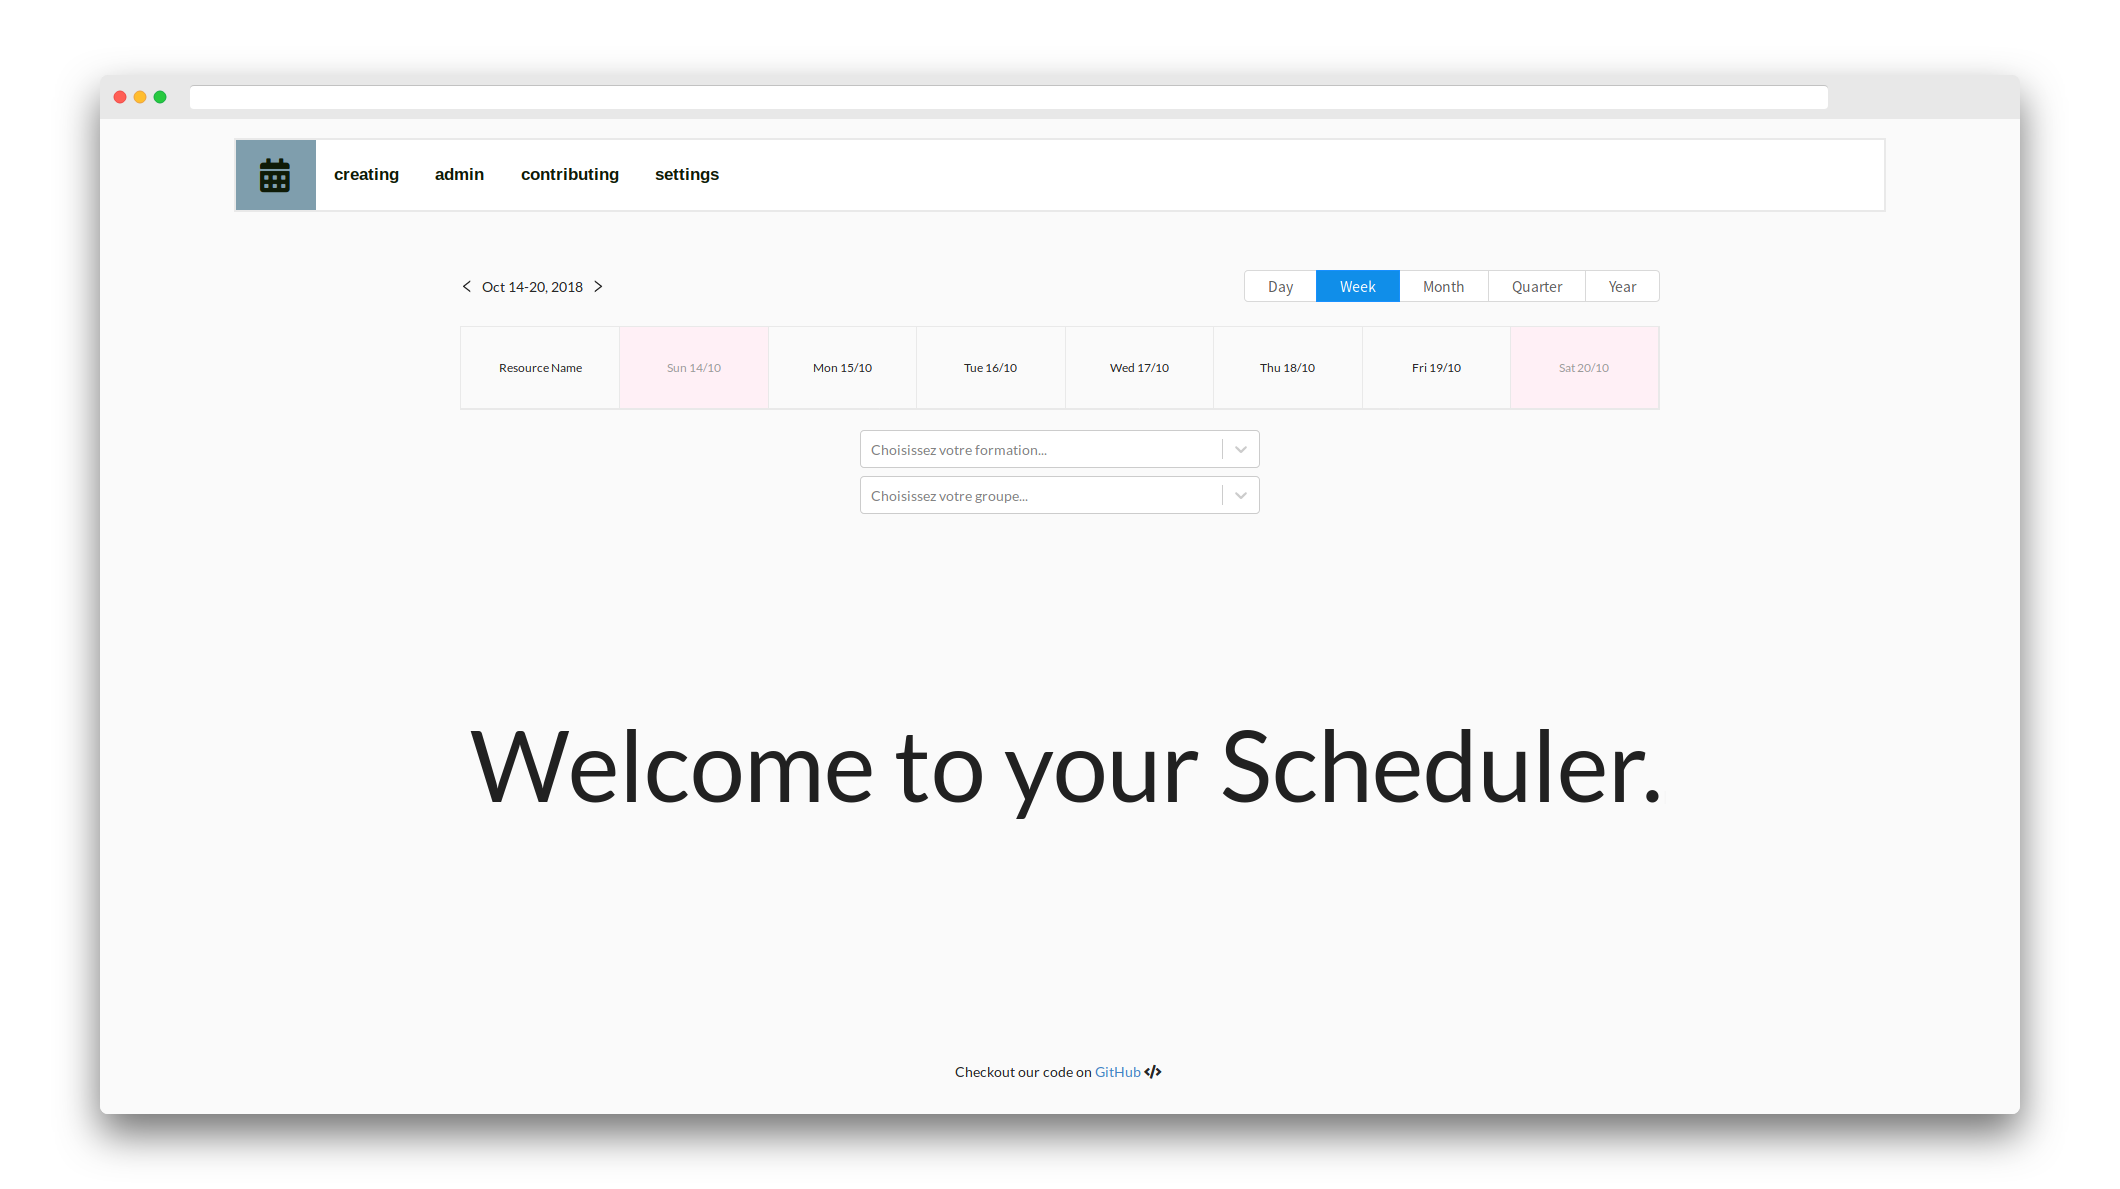
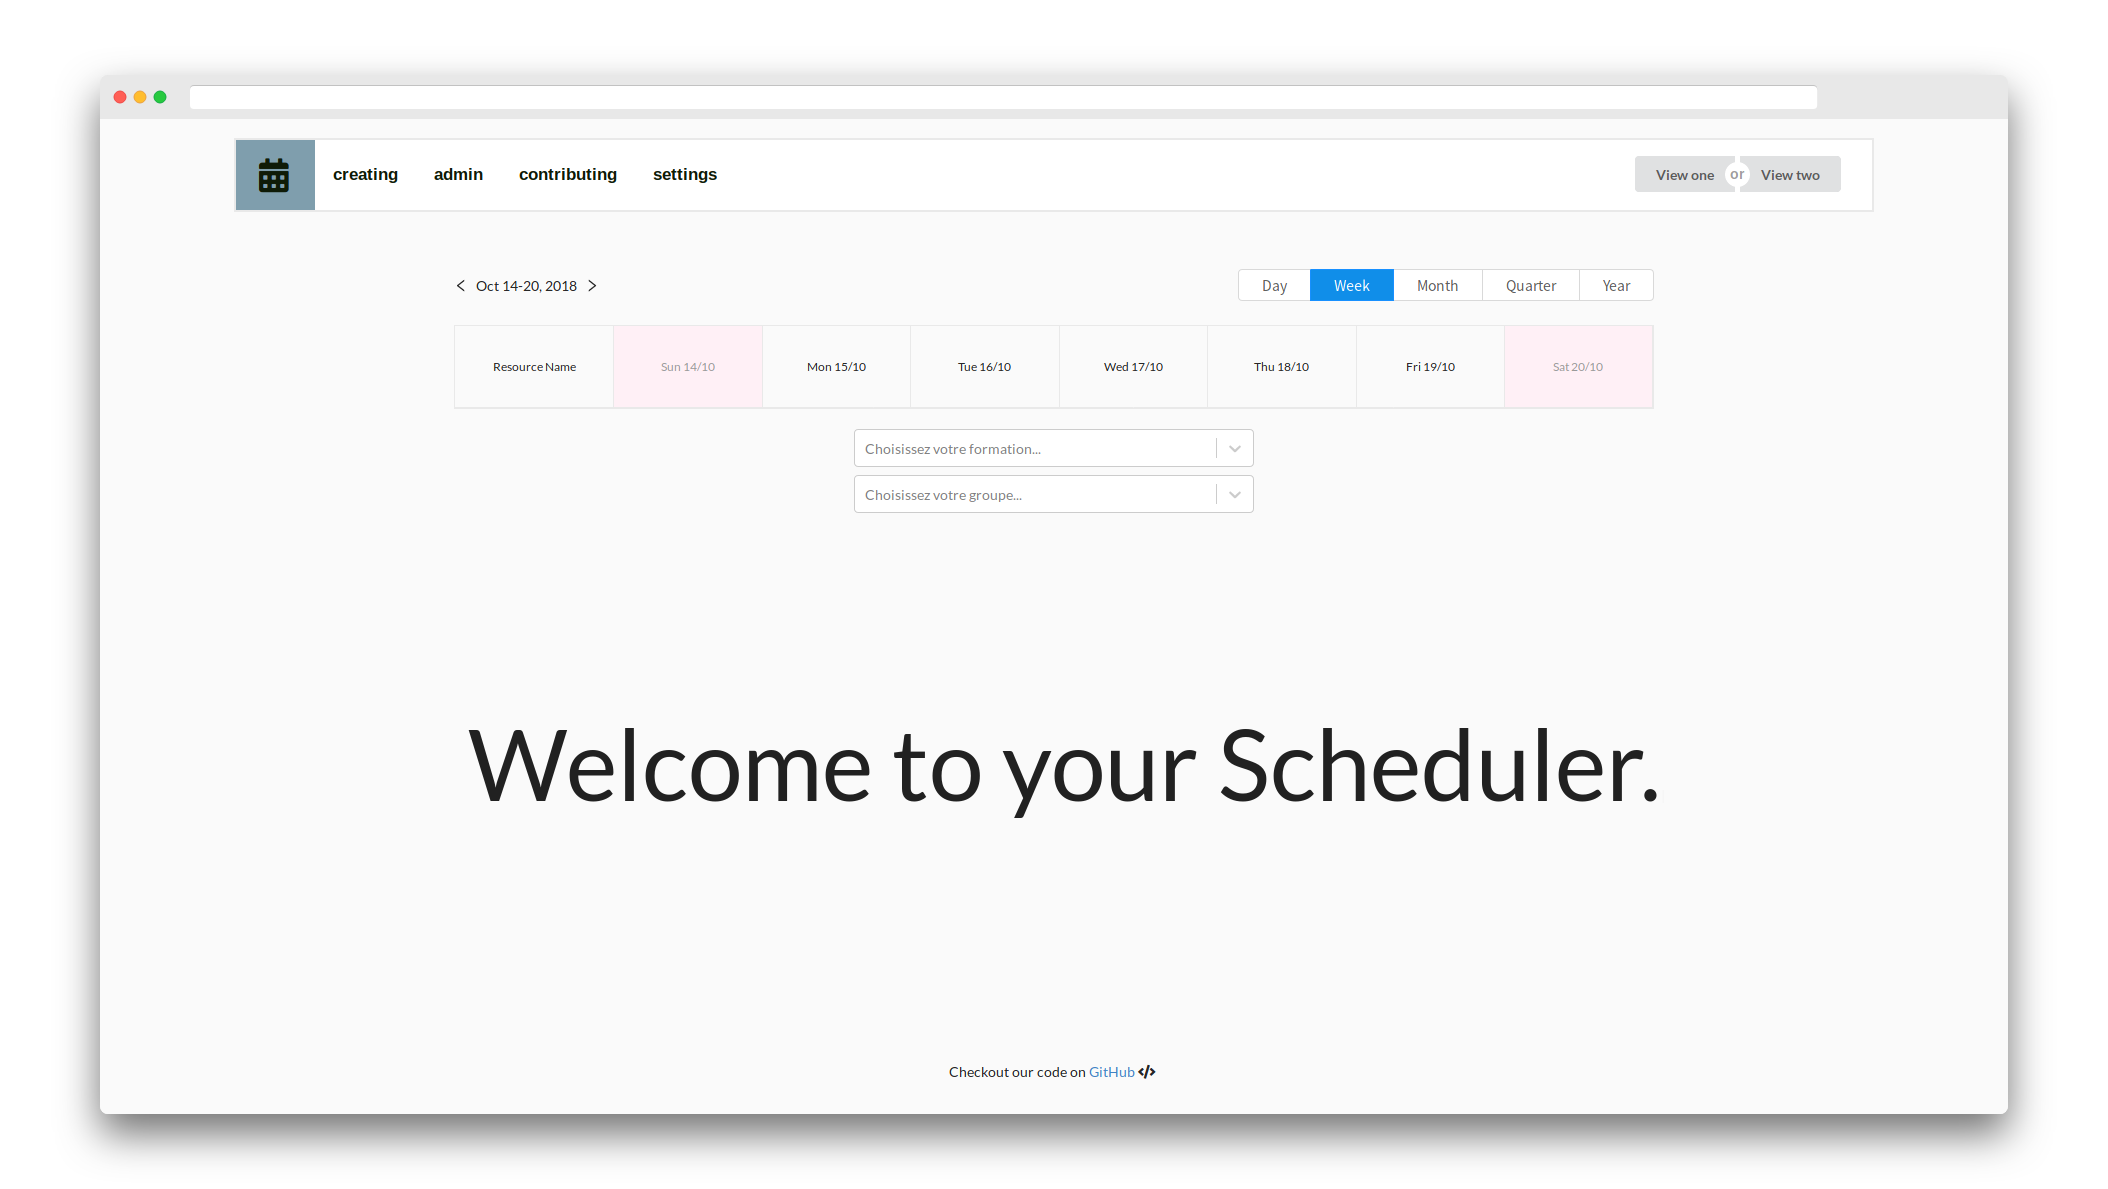
Added comments in the code

diff --git a/client/src/components/Home/Home.jsx b/client/src/components/Home/Home.jsx
@@ -7,13 +7,20 @@ import EventPanel from "./EventPanel/EventPanel";
 import WelcomeAnimation from "./WelcomeAnimation";
 
 /*  
+    *
     * This class handles which scheduler View is displayed depending on :
     * - if the user has already selected his class
     * - if the user has selected another view
     * 
-    * When user has selected his class, the Welcome animation will be replaced by null
+    * To know if the user has done a certain action, the Home component is connected to the state of our app (using mapStateToProps function) : this way,
+    * it will be constantly listening to the values of the state elements indicating if a user has done a certain action.
     * 
-    * if eventInfos object is filled, the component will display a eventInfos panel
+    * Here are some examples of what the Home Component will be doing depending of the state values it listens to :
+    * 
+    * - when user has selected his class, the Welcome animation will be replaced by null
+    * 
+    * - if eventInfos object is filled, the component will display a eventInfos panel
+    * 
     * 
 */
 

diff --git a/client/src/reducers/index.js b/client/src/reducers/index.js
@@ -9,6 +9,17 @@ import { ALL_GROUPES_LOADED, ALL_FORMATIONS_LOADED,
     EVENT_INFOS_ENDED, SHOW_FIRST_VIEW, SHOW_SECOND_VIEW } from "../constants/index";
 import { SchedulerData, ViewTypes } from 'react-big-scheduler';
 import config from "../schedulerConfig";
+
+/*  
+    *
+    * This file contains the state of the app :
+    * 
+    * all the state elements can be seen in the const rootReducer (see the end of the file)
+    * 
+    * each reducer corresponds to a state element, depending on the type of the action triggered by what action have been triggered by a component,
+    * a certain element of the state will be modified
+    * 
+*/
  
 const schedulerDataReducer = (state = new SchedulerData('2018-10-17', ViewTypes.Week, false, false, config), action) => {
 

diff --git a/client/src/actions/homeActions.js b/client/src/actions/homeActions.js
@@ -5,6 +5,14 @@ import { LOAD_AGENDA_DATA, ALL_FORMATIONS_LOADED,
 import axios from 'axios';
 import moment from 'moment';
 
+/*  
+    *
+    * This class contains all the actions that will be called by the Home component to trigger a certain action of a user interaction
+    * 
+    * for example : this class contains the action that will be made on the state when a user fill the select elements on the home menu (loading agenda data)
+    * 
+*/
+
 export function loadAgendaData(idFormation, idGroupe) {
     return function(dispatch){
         return axios.post('/api/getModule', {

diff --git a/client/src/components/Home/SecondView/SecondView.jsx b/client/src/components/Home/SecondView/SecondView.jsx
@@ -6,8 +6,13 @@ const mapStateToProps = state => {
     return { allMatieres: state.allMatieres }
 }
 
-class SecondView extends Component{
+//  LIENS OUVERTS AU MOMENT M : REACT DND, REACT SEMANTIC UI (pour les cartes)
 
+// TODO : Faire des cards avec les noms contenus dans thèmes (tables matière) = on parse le JSON
+//        Dans UE, on aura un module (genre Anglais) puis au milieu on aura des cards (genre enseignement voc anglais) et on pourra rajouter ou enlever des cards ?
+
+class SecondView extends Component{
+ 
     render(){
         let tabSommeNbH = [];
 

diff --git a/client/src/components/Home/MyScheduler.jsx b/client/src/components/Home/MyScheduler.jsx
@@ -5,6 +5,14 @@ import { prevClick, nextClick, onViewChange, onSelectDate, saveEvent, deleteEven
 import { connect } from "react-redux";
 import 'react-big-scheduler/lib/css/style.css';
 
+/*  
+    *
+    * This class basically is the first view of the scheduler :
+    *   it will control what actions are triggered when user clicks on a certain element of the scheduler first view by calling actions in schedulerActions.jsx
+    * 
+    * 
+*/
+
 const mapStateToProps = state => {
     return {
         viewModel: state.schedulerData 

diff --git a/client/src/components/Home/HomeSelects.jsx b/client/src/components/Home/HomeSelects.jsx
@@ -4,6 +4,12 @@ import Select from 'react-select';
 import { getAllFormations, getAllGroupes, loadAgendaData } from '../../actions/homeActions';
 import { getAllMatieres } from '../../actions/creatingActions';
 
+/*  
+    *
+    * This class basically creates select components that will always be displayed on the home menu for the user to choose his class for example
+    * 
+*/
+
 export class HomeSelects extends Component{
     constructor(){
         super();

diff --git a/client/src/actions/creatingActions.js b/client/src/actions/creatingActions.js
@@ -5,6 +5,12 @@ import {toast} from 'react-toastify';
 import 'react-toastify/dist/ReactToastify.css';
 import moment from 'moment';
 
+/*  
+    *
+    * This class contains all the actions that will be needed to create entries in DB (a créneau, a module, etc)
+    * 
+*/
+
 export function getAllModules() {
     return function(dispatch){
         return fetch("/api/getAllModules")

diff --git a/client/src/constants/index.js b/client/src/constants/index.js
@@ -1,3 +1,9 @@
+/*  
+    *
+    * Here are constants corresponding to the different types of actions that can be made on the state elements
+    * 
+*/
+
 //  related to main section
 export const SHOW_FIRST_VIEW = "SHOW_FIRST_VIEW";
 export const SHOW_SECOND_VIEW = "SHOW_SECOND_VIEW";

diff --git a/README.md b/README.md
@@ -24,6 +24,7 @@ This project was developed during a few months as a school project for Paris Des
     <li>Confirmation of done action or error if one happened on DB displayed on a toast</li>
     <li>Show infos on events displayed on the scheduler</li>
     <li>Handles the conflict between two events if happening at the same time</li>
+    <li>ALPHA feature - 2 views : two ways to organize your time !</li>
     <li>Single page design </li>
 </ul>
 
